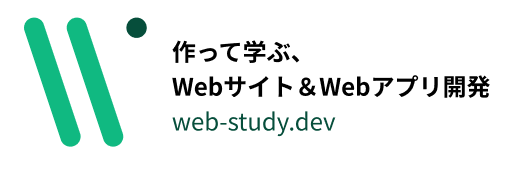
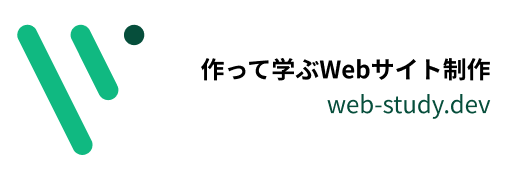
Webサイトのみに変更

Changed region(s): [[0.3125, 0.2339, 0.9688, 0.7895], [0.0312, 0.0877, 0.25, 0.9064], [0.2188, 0.0877, 0.3125, 0.2632]]

diff --git a/layouts/default.vue b/layouts/default.vue
@@ -7,13 +7,29 @@
           <main>
             <Nuxt />
           </main>
-          <footer class="p-4 bg-green-500 text-white sm:mr-64">
-            <ul class="flex flex-col items-center p-4">
-              <li v-for="link in footerLinks" :key="link.url" class="py-1">
-                <a :href="link.url">{{ link.title }}</a>
-              </li>
-            </ul>
-            <div class="text-center text-xs p-4">
+          <footer class="p-8 bg-green-500 text-white sm:mr-64">
+            <div class="flex flex-row gap-4 justify-center">
+              <a href="/about">
+                About
+              </a>
+              <a href="https://twitter.com/_umatoma">
+                Twitter
+              </a>
+              <a href="https://zenn.dev/umatoma/books">
+                Zenn
+              </a>
+            </div>
+            <div class="text-center pt-8">
+              <h5 class="font-bold">
+                関連サイト
+              </h5>
+              <div class="pt-2 text-center">
+                <a href="https://www.flutter-study.dev">
+                  <img src="/images/banner-flutter.png" class="inline rounded-md">
+                </a>
+              </div>
+            </div>
+            <div class="text-center text-xs pt-8">
               <p>Copyright {{ title }}</p>
               <p>
                 <a href="https://icons8.com">Icons by Icons8</a>
@@ -35,8 +51,7 @@ export default defineComponent({
     const store = useStore<State>()
 
     return {
-      title: store.state.title,
-      footerLinks: store.state.footerLinks
+      title: store.state.title
     }
   }
 })

diff --git a/nuxt.config.js b/nuxt.config.js
@@ -4,7 +4,7 @@ export default {
 
   // Global page headers: https://go.nuxtjs.dev/config-head
   head: {
-    title: '作って学ぶ、Webサイト＆Webアプリ開発',
+    title: '作って学ぶWebサイト制作',
     htmlAttrs: {
       lang: 'ja'
     },
@@ -14,9 +14,9 @@ export default {
       { hid: 'description', name: 'description', content: '手を動かしながら、WebサイトやWebアプリの作り方を学ぼう！' },
       { hid: 'twitter:card', name: 'twitter:card', content: 'summary_large_image' },
       { hid: 'og:type', property: 'og:type', content: 'article' },
-      { hid: 'og:site_name', property: 'og:site_name', content: '作って学ぶ、Webサイト＆Webアプリ開発' },
+      { hid: 'og:site_name', property: 'og:site_name', content: '作って学ぶWebサイト制作' },
       { hid: 'og:description', property: 'og:description', content: '手を動かしながら、WebサイトやWebアプリの作り方を学ぼう！' },
-      { hid: 'og:title', property: 'og:title', content: '作って学ぶ、Webサイト＆Webアプリ開発' },
+      { hid: 'og:title', property: 'og:title', content: '作って学ぶWebサイト制作' },
       { hid: 'og:image', property: 'og:image', content: 'https://web-study.dev/images/banner.png' }
     ],
     link: [

diff --git a/store/index.ts b/store/index.ts
@@ -1,19 +1,15 @@
 export interface State {
-    title: string,
-    categories: {
-        title: string,
-        directory: string
-    }[],
-    footerLinks: {
+  title: string,
+  categories: {
       title: string,
-      url: string
-  }[]
+      directory: string
+  }[],
 }
 
 export interface Mutations {}
 
 export const state: (() => State) = () => ({
-  title: '作って学ぶ、Webサイト＆Webアプリ開発',
+  title: '作って学ぶWebサイト制作',
   categories: [
     {
       title: 'Webサイト入門',
@@ -22,24 +18,6 @@ export const state: (() => State) = () => ({
     {
       title: 'Webサイト実践',
       directory: 'website-practice'
-    }
-  ],
-  footerLinks: [
-    {
-      title: 'このサイトについて',
-      url: '/about'
-    },
-    {
-      title: 'Twitter',
-      url: 'https://twitter.com/_umatoma'
-    },
-    {
-      title: 'Zenn',
-      url: 'https://zenn.dev/umatoma/books'
-    },
-    {
-      title: 'flutter-study.dev',
-      url: 'https://www.flutter-study.dev/'
     }
   ]
 })

diff --git a/components/SideNav.vue b/components/SideNav.vue
@@ -31,17 +31,7 @@
         <div>
           <div class="p-2">
             <h5 class="font-bold">
-              Webアプリ入門
-            </h5>
-          </div>
-          <p class="block py-2 px-4 text-sm">
-            作成中
-          </p>
-        </div>
-        <div>
-          <div class="p-2">
-            <h5 class="font-bold">
-              Webアプリ実践
+              Webサイト応用
             </h5>
           </div>
           <p class="block py-2 px-4 text-sm">

diff --git a/content/top/index.md b/content/top/index.md
@@ -1,42 +1,44 @@
 ---
-title: 作って学ぶ、Webサイト＆Webアプリ開発
+title: 作って学ぶWebサイト制作
 description: 手を動かしながら、WebサイトやWebアプリの作り方を学ぼう！
 slug: top-01
 ---
 
-## 作って学ぶ、Webサイト＆Webアプリ開発
+## 作って学ぶWebサイト制作
 
-このサイトでは、WebサイトやWebアプリの作り方を学べるコンテンツを公開しています。  
+このサイトでは、HTML・CSS・JavaScriptを使ったWebサイトの作り方を学べるコンテンツを公開しています。  
 実際に手を動かしながら、楽しく学べるコンテンツを目指しています。
 
 ### 対象者
 
-- WebサイトやWebアプリを作ってみたいけど、どうやって作るか分からない方
+- Webサイトを作ってみたいけど、どうやって作るか分からない方
 - HTMLやCSSを学ぼうとしたけど、難しくて挫折してしまった方
-- HTML・CSS・JavaScriptを使ってWebサイトやWebアプリを作れるようになりたい方
+- HTML・CSS・JavaScriptを使ってWebサイトを作れるようになりたい方
 
 ### 進め方
 
 順番にコンテンツを進めてもらうだけでOKです。
 
-- Webサイト入門
-- Webサイト実践
-- Webアプリ入門
-- Webアプリ実践
+- **Webサイト入門**
+  - Webサイトを作るための基礎知識を学ぶ
+- **Webサイト実践**
+  - 様々なWebサイトを作ってみる
+- **Webサイト応用**
+  - よりレベルアップするための知識を学ぶ
 
 ![](/images/top/top-steps.png)
 
 
 ## 早速、始めよう！
 
-Webサイト＆Webアプリ開発を始めてみましょう！
+Webサイト制作を始めてみましょう！
 
 <p class="link-button">
     <a href="/website/web-about">はじめる</a>
 </p>
 
 
-## スマホアプリを作りたい方へ
+## スマホアプリを作りたい
 
 「[Flutterで始めるアプリ開発](https://www.flutter-study.dev/)」にて、スマホアプリの作り方を学べるコンテンツを公開しています。  
 よかったらこちらもご利用下さい。
@@ -44,4 +46,4 @@ Webサイト＆Webアプリ開発を始めてみましょう！
 - Flutterで始めるアプリ開発
   - [https://www.flutter-study.dev/](https://www.flutter-study.dev/)
 
-![](/images/top/top-flutter-study.png)
+![](/images/banner-flutter.png)
